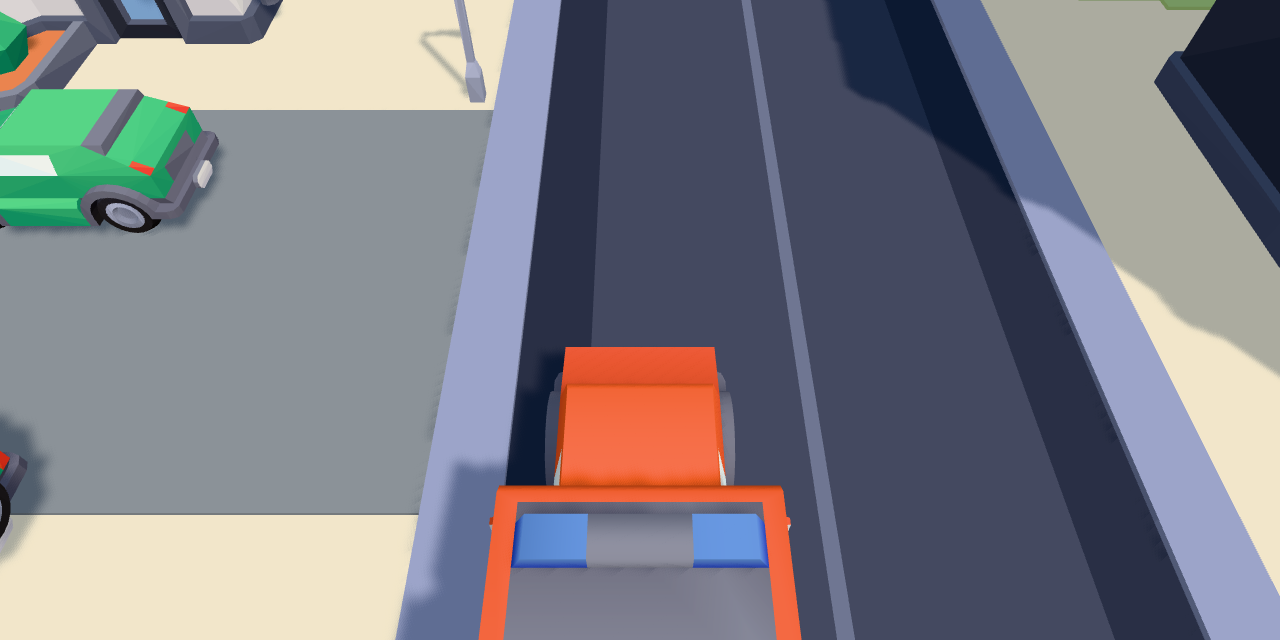
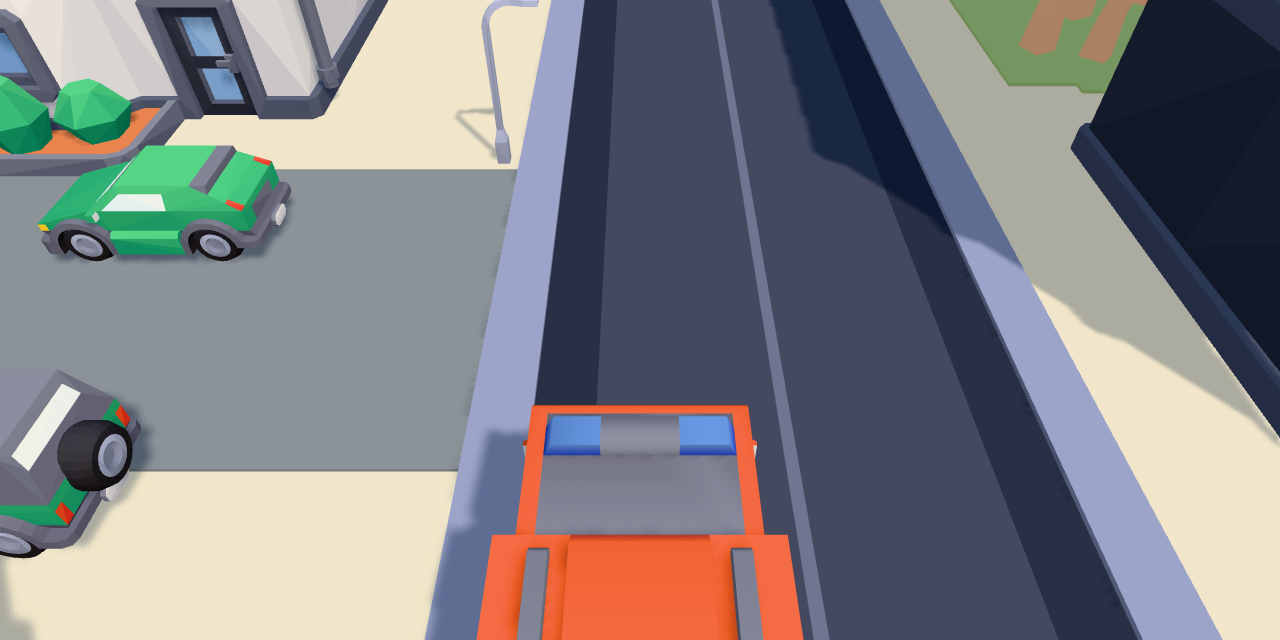
Freeze the truck during mini-scenes
Driving off mid-fire (or mid-rescue) is no longer possible: physics is
skipped and speed pinned to zero while the spray or ladder mini-scene is
active. Crashes still resolve normally since they only occur while driving.

diff --git a/src/games/city/index.ts b/src/games/city/index.ts
@@ -170,12 +170,17 @@ const tick = (): void => {
   const input = readDriveInput();
   const st = player.state;
 
-  // physics + collision
-  const boxes = chunks.boxesNear(st.x, st.z);
-  const step = physicsStep(player, input, dt, boxes);
-  if (step.crashed) {
-    audio.thud();
-    toast = '';
+  // physics + collision (frozen during the mini-scenes: the truck stays put
+  // until the fire is out / the cat is down)
+  if (mode === 'drive' || player.crashT > 0) {
+    const boxes = chunks.boxesNear(st.x, st.z);
+    const step = physicsStep(player, input, dt, boxes);
+    if (step.crashed) {
+      audio.thud();
+      toast = '';
+    }
+  } else {
+    st.v = 0;
   }
 
   player.car.position.set(st.x, 0, st.z);
